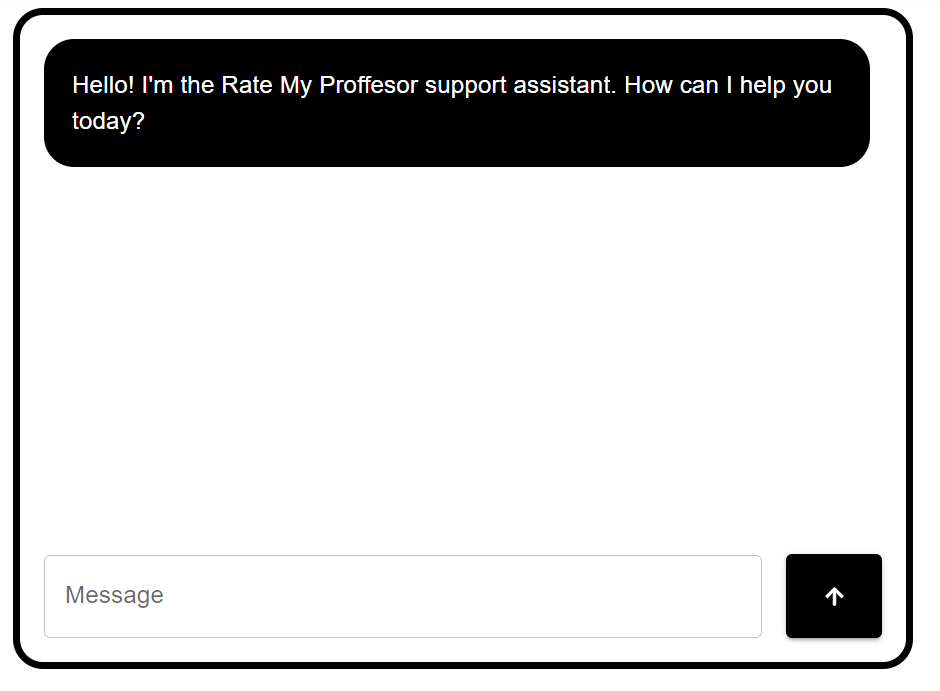
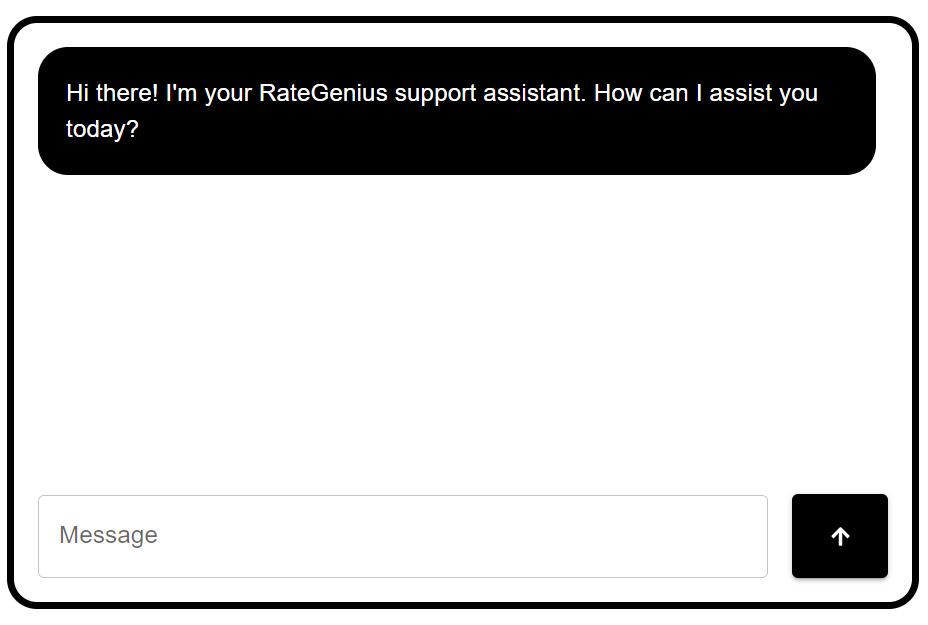
UI changes

Changed region(s): [[0.0, 0.0, 1.0, 0.9728]]

diff --git a/app/professorClientDetails.js b/app/professorClientDetails.js
@@ -1,7 +1,7 @@
 'use client';
 
 import { useRouter } from 'next/navigation';
-import { Box, Grid, Button, Typography } from '@mui/material';
+import { Box, Grid, Button, Typography, Paper, Divider } from '@mui/material';
 import Sentiment from 'sentiment';
 import { Pie } from 'react-chartjs-2';
 import { Chart as ChartJS, ArcElement, Tooltip, Legend } from 'chart.js';
@@ -18,12 +18,12 @@ function ProfessorDetailClient({ professorData }) {
   // Create chart data
   const chartData = createChartData(sentimentData);
 
-  function OnClickButton(){
+  function OnClickButton() {
     router.push('/dashboard');
   }
 
   return (
-    <Box sx={{ padding: 4 }}>
+    <Box sx={{ padding: 4, bgcolor: '#f0f2f5', minHeight: '100vh' }}>
       <Grid container spacing={4}>
         {/* Top Section */}
         <Grid item xs={12} textAlign="left">
@@ -33,10 +33,11 @@ function ProfessorDetailClient({ professorData }) {
             sx={{
               backgroundColor: 'black',
               color: 'white',
-              border: '1px solid white',
+              borderRadius: '8px',
+              padding: '10px 20px',
+              boxShadow: '0px 4px 10px rgba(0, 0, 0, 0.1)',
               '&:hover': {
-                backgroundColor: 'white',
-                color: 'black',
+                backgroundColor: 'grey',
               },
             }}
           >
@@ -47,52 +48,77 @@ function ProfessorDetailClient({ professorData }) {
         {/* Middle Section */}
         <Grid item xs={12}>
           <Grid container spacing={4}>
-            {/* Middle Left Section */}
-            <Grid item xs={6}>
-              <Typography 
-                variant="h4" 
-                sx={{ fontFamily: 'Arial, sans-serif', fontWeight: 'bold' }}
-              >
-                {professorData.name}
-              </Typography>
-              <Typography 
-                variant="h6" 
-                sx={{ fontFamily: 'Arial, sans-serif', color: 'gray' }}
-              >
-                Department: {professorData.department}
-              </Typography>
-              <Typography 
-                variant="h6" 
-                sx={{ fontFamily: 'Arial, sans-serif', color: 'gray' }}
-              >
-                Rating: {professorData.rating}
-              </Typography>
+            {/* Middle Left Section (70%) */}
+            <Grid item xs={8.4}>
+              <Paper sx={{ backgroundColor: 'black', padding: 6, borderRadius: '12px', boxShadow: '0px 4px 20px rgba(0, 0, 0, 0.1)' }}>
+                <Typography 
+                  variant="h2" 
+                  sx={{ fontFamily: 'Roboto, sans-serif', fontWeight: 'bold', color: 'white', marginBottom: 2 }}
+                >
+                  {professorData.name}
+                </Typography>
+                <Divider sx={{ marginBottom: 2, borderColor: 'white' }} />
+                <Typography 
+                  variant="h4" 
+                  sx={{ fontFamily: 'Roboto, sans-serif', color: 'white' }}
+                >
+                  {<b>Department:</b>} {professorData.department}
+                </Typography>
+                <Typography 
+                  variant="h4" 
+                  sx={{ fontFamily: 'Roboto, sans-serif', color: 'white' }}
+                >
+                  {<b>Rating:</b>} {professorData.rating}
+                </Typography>
+              </Paper>
             </Grid>
 
-            {/* Middle Right Section */}
-            <Grid item xs={3.5} textAlign="center">
-              <Pie data={chartData} />
+            {/* Middle Right Section (30%) */}
+            <Grid item xs={3.6}>
+              <Paper sx={{ backgroundColor: 'black', padding: 2, borderRadius: '12px', boxShadow: '0px 4px 20px rgba(0, 0, 0, 0.1)' }}>
+                <Typography color='white' variant='h5'>
+                  {<b>Sentiment Analysis</b>}
+                </Typography>
+                <Pie 
+                  data={chartData} 
+                  options={{ 
+                    plugins: { 
+                      legend: { 
+                        display: true, 
+                        position: 'bottom',
+                        labels: {
+                          color: 'white', // Change legend text color to white
+                        },
+                      } 
+                    }, 
+                    aspectRatio: 1 
+                  }} 
+                />
+              </Paper>
             </Grid>
           </Grid>
         </Grid>
 
         {/* Bottom Section */}
         <Grid item xs={12}>
-          <Typography 
-            variant="h5" 
-            sx={{ fontFamily: 'Arial, sans-serif', fontWeight: 'bold' }}
-          >
-            Reviews:
-          </Typography>
-          {professorData.reviews.map((review, index) => (
+          <Paper sx={{ backgroundColor: 'black', padding: 2, borderRadius: '12px', boxShadow: '0px 4px 20px rgba(0, 0, 0, 0.1)' }}>
             <Typography 
-              key={index}
-              variant="body1" 
-              sx={{ fontFamily: 'Arial, sans-serif', color: 'gray' }}
+              variant="h4" 
+              sx={{ fontFamily: 'Roboto, sans-serif', fontWeight: 'bold', color: 'white', marginBottom: 2 }}
             >
-              {review}
+              Reviews:
             </Typography>
-          ))}
+            <Divider sx={{ marginBottom: 2, borderColor: 'white' }} />
+            {professorData.reviews.map((review, index) => (
+              <Typography 
+                key={index}
+                variant="h6" 
+                sx={{ fontFamily: 'Roboto, sans-serif', color: 'white', marginBottom: 1 }}
+              >
+                {review}
+              </Typography>
+            ))}
+          </Paper>
         </Grid>
       </Grid>
     </Box>
@@ -124,7 +150,6 @@ function createChartData(sentimentData) {
     labels: ['Positive', 'Negative', 'Neutral'],
     datasets: [
       {
-        label: 'Sentiment Analysis',
         data: [sentimentData.positive, sentimentData.negative, sentimentData.neutral],
         backgroundColor: ['#4caf50', '#f44336', '#ffeb3b'], // Colors for positive, negative, neutral
       },

diff --git a/app/about/page.js b/app/about/page.js
@@ -13,9 +13,6 @@ export default function About() {
   const { user } = useAuth();
 
   const handleFetchDevelopers = async () => {
-    if (!hasClicked) {
-      setHasClicked(true); 
-    }
     setIsLoading(true); 
     try {
       const fetchedDevelopers = await fetchDevelopers();
@@ -26,7 +23,9 @@ export default function About() {
         ...prevMessages,
         { role: 'assistant', content: "Here you see the developers." },
       ]);
-      
+
+      setHasClicked(false); // Reset hasClicked to false after fetching is complete
+
     } catch (error) {
       console.error("Error fetching developers:", error);
     } finally {
@@ -51,6 +50,7 @@ export default function About() {
         { role: 'user', content: message },
         { role: 'assistant', content: "Fetching developers' information..." },
       ]);
+      setHasClicked(true); // Set hasClicked to true to prevent further clicks until the fetching is complete
       handleFetchDevelopers();
     } else {
       setMessages((prevMessages) => [
@@ -78,7 +78,6 @@ export default function About() {
           color: 'black',
           fontWeight: 'bold',
           textTransform: 'uppercase',
-          
         }}
       >
         About Us
@@ -161,12 +160,15 @@ export default function About() {
                   label="Type 'Developers'"
                   fullWidth
                   value={message}  // Bind value to message state
-                  onChange={(e) => setMessage(e.target.value)}  // Update state on change
+                  onChange={(e) => {
+                    setMessage(e.target.value);
+                    setHasClicked(false); // Allow the button to be clicked again when the user types a new message
+                  }}  // Update state on change
                 />
                 <Button 
                   variant="contained" 
                   onClick={handleMessageSubmit}  // Handle submission
-                  disabled={isLoading}
+                  disabled={isLoading || hasClicked} // Disable the button if loading or hasClicked is true
                   sx={{
                     backgroundColor: 'black',
                     color: 'white',
@@ -226,17 +228,17 @@ async function fetchDevelopers() {
     {
       username: 'pravallikabollavaram',
       name: 'Pravallika Bollavaram',
-      bio: 'Webscraping Expert and Sentiment Analyst',
+      bio: 'Scraped data and implemented sentiment analysis',
     },
     {
       username: 'sairamsreejith0',
       name: 'Venkata Sairam Nagilla',
-      bio: 'Pinecone Specialist and Rag Model Implementer',
+      bio: 'Managed Pinecone and Implemented RAG model',
     },
     {
       username: 'harsha-1718',
       name: 'Harshavardhan Yarmareddy',
-      bio: 'UI DesignerUser Authentication Specialist',
+      bio: 'Designed the UI and implemented user authentication',
     },
   ];
 

diff --git a/app/landingpage/page.js b/app/landingpage/page.js
@@ -1,23 +1,29 @@
 'use client';
+import { useState } from 'react';
 import Image from "next/image";
 import { Button } from "@mui/material";
 import { FaArrowRight } from "react-icons/fa";
 import { useRouter } from 'next/navigation';
 import { motion } from "framer-motion";
 import { useAuth } from '../context/authContext'; // Adjust the import path as needed
+ // Import the Loading component
 
 export default function Landingpage() {
   const { user } = useAuth(); // Get user from auth context
   const router = useRouter();
-
+  
   const handleButtonClick = () => {
-    if (user) {
-      router.push('/dashboard'); // Navigate to dashboard if user is signed in
-    } else {
-      router.push('/landerpage'); // Navigate to /landerpage if user is not signed in
-    }
+    
+    setTimeout(() => {
+      if (user) {
+        router.push('/dashboard'); // Navigate to dashboard if user is signed in
+      } else {
+        router.push('/landerpage'); // Navigate to /landerpage if user is not signed in
+      }
+    }, 1000); // Simulate a short delay before navigation (optional)
   };
 
+ 
   return (
     <div
       style={{
@@ -26,7 +32,6 @@ export default function Landingpage() {
         alignItems: 'center',
         height: '100vh',
         padding: '25px',
-        // marginBottom:'20%',
       }}
     >
       <motion.div
@@ -40,14 +45,14 @@ export default function Landingpage() {
           animate={{ opacity: 1 }}
           transition={{ duration: 1 }}
         >
-          Welcome to Rate My <br /> Professor AI
+          Welcome to RateGenius
         </motion.h1>
         <motion.h6
           initial={{ opacity: 0, y: 20 }}
           animate={{ opacity: 1, y: 0 }}
           transition={{ duration: 0.8, delay: 0.5 }}
         >
-          Your AI Companion is ready
+          Your Smart Professor Insight Engine is Ready to Assist
         </motion.h6>
 
         <motion.div
@@ -68,7 +73,7 @@ export default function Landingpage() {
             }}
             onClick={handleButtonClick}
           >
-            Ask our AI <FaArrowRight />
+            Ask the Genius <FaArrowRight />
           </Button>
         </motion.div>
       </motion.div>
@@ -84,7 +89,7 @@ export default function Landingpage() {
           animate={{ opacity: 1 }}
           transition={{ duration: 1 }}
         >
-          Rate My Professor AI
+          RateGenius
         </motion.h3>
         <motion.div
           initial={{ opacity: 0, scale: 0.8 }}

diff --git a/app/loading.js b/app/loading.js
@@ -1,0 +1,62 @@
+'use client';
+import { Box, CircularProgress, Typography } from '@mui/material';
+import { motion } from 'framer-motion';
+
+export default function Loading() {
+  return (
+    <Box
+      display="flex"
+      justifyContent="center"
+      alignItems="center"
+      height="100vh"
+      width="100vw"
+      bgcolor="rgba(0, 0, 0, 0.8)" // Black background with some transparency
+      position="fixed" // Overlay the entire page
+      top={0}
+      left={0}
+      zIndex={1000} // Ensure it overlays on top of other content
+    >
+      <motion.div
+        style={{
+          display: 'flex',
+          alignItems: 'center',
+          justifyContent: 'center',
+        }}
+        initial={{ scale: 1 }}
+        animate={{ scale: [1, 1.2, 1] }}
+        transition={{
+          duration: 1.5,
+          repeat: Infinity,
+          repeatType: "reverse",
+          ease: "easeInOut",
+        }}
+      >
+        <CircularProgress 
+          size={60} 
+          sx={{ color: 'white' }} // White color for the spinner
+        />
+      </motion.div>
+      
+      <motion.div
+        style={{
+          position: 'absolute',
+          bottom: '10%',
+          textAlign: 'center',
+          width: '100%',
+          color: 'white',
+          fontSize: '1.2rem',
+          letterSpacing: '0.1rem',
+        }}
+        initial={{ opacity: 0 }}
+        animate={{ opacity: [0, 1, 0] }}
+        transition={{
+          duration: 2,
+          repeat: Infinity,
+          ease: "easeInOut",
+        }}
+      >
+        Loading, please wait...
+      </motion.div>
+    </Box>
+  );
+}

diff --git a/app/dashboard/page.js b/app/dashboard/page.js
@@ -11,7 +11,7 @@ import { useAuth } from '../context/authContext';
 export default function Dashboard() {
   const initialAssistantMessage = {
     role: 'assistant',
-    content: "Hello! I'm the Rate My Professor support assistant. How can I help you today?",
+    content: "Hi there! I'm your RateGenius support assistant. How can I assist you today?",
   };
 
   const [messages, setMessages] = useState([]);
